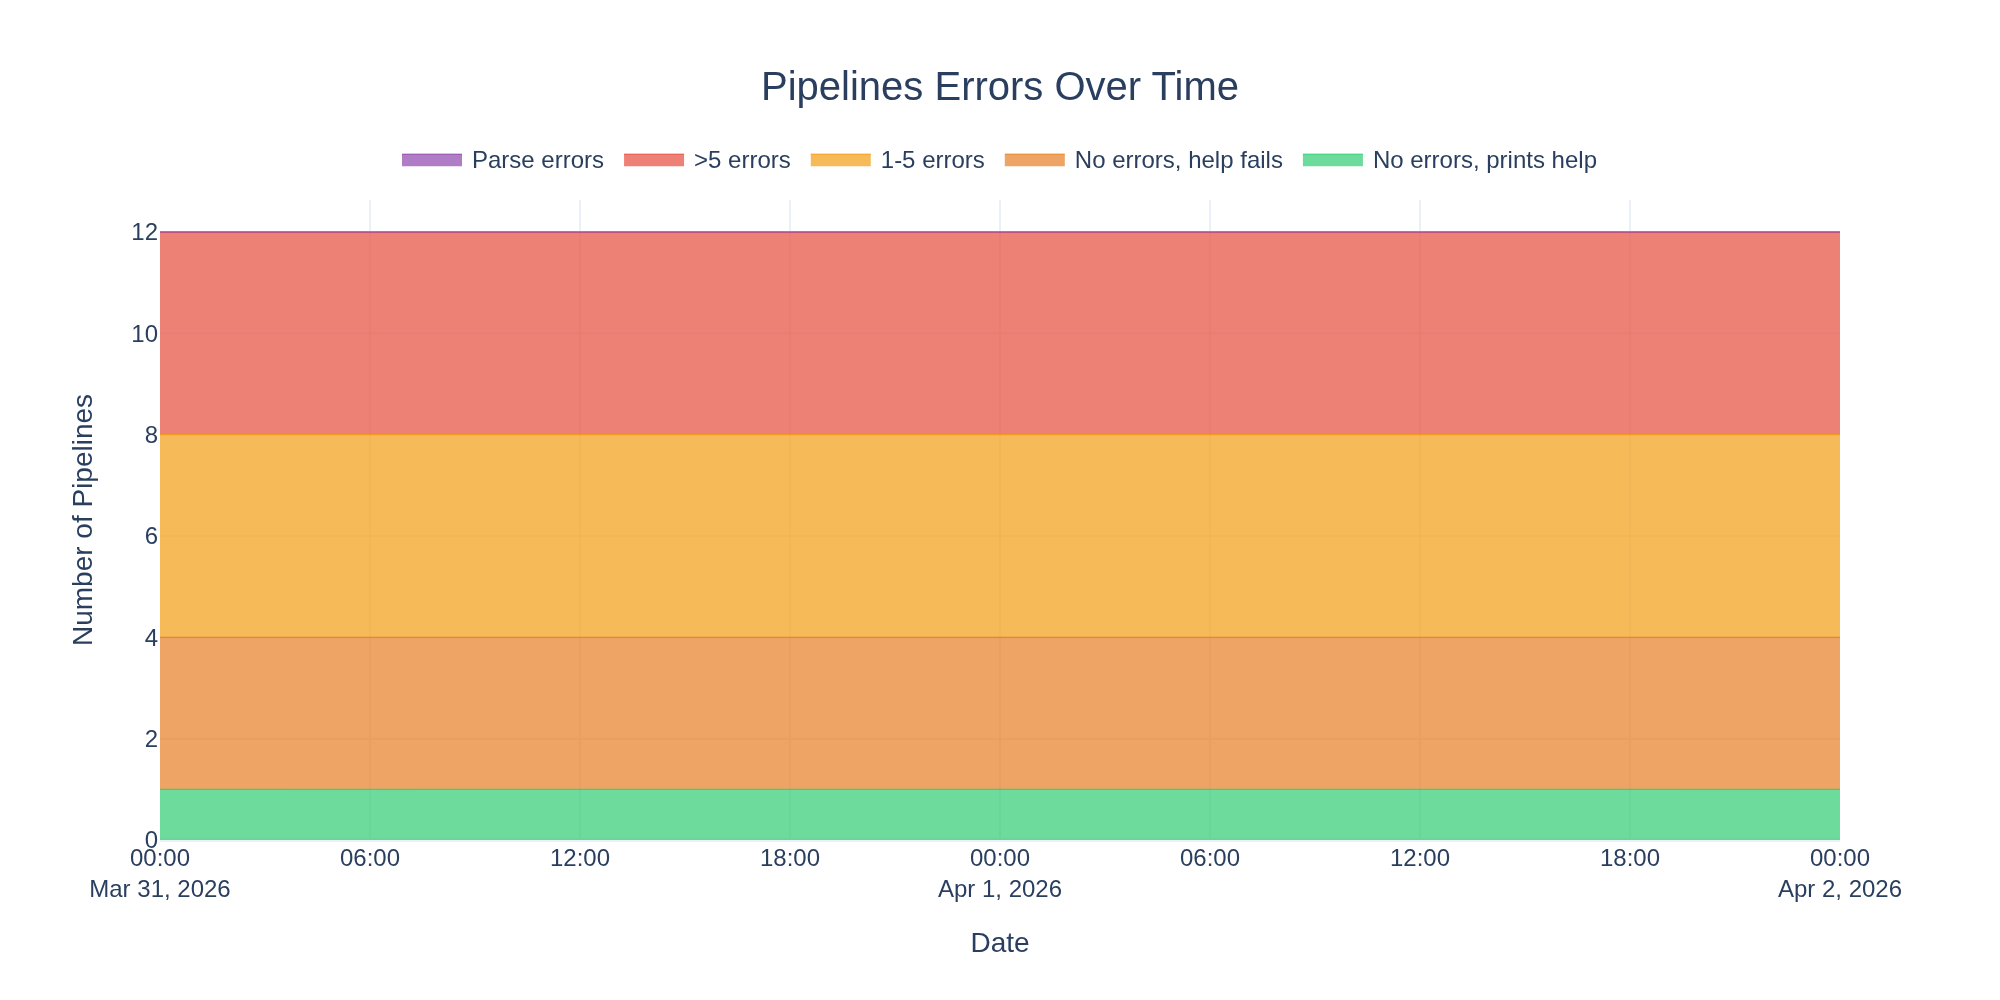
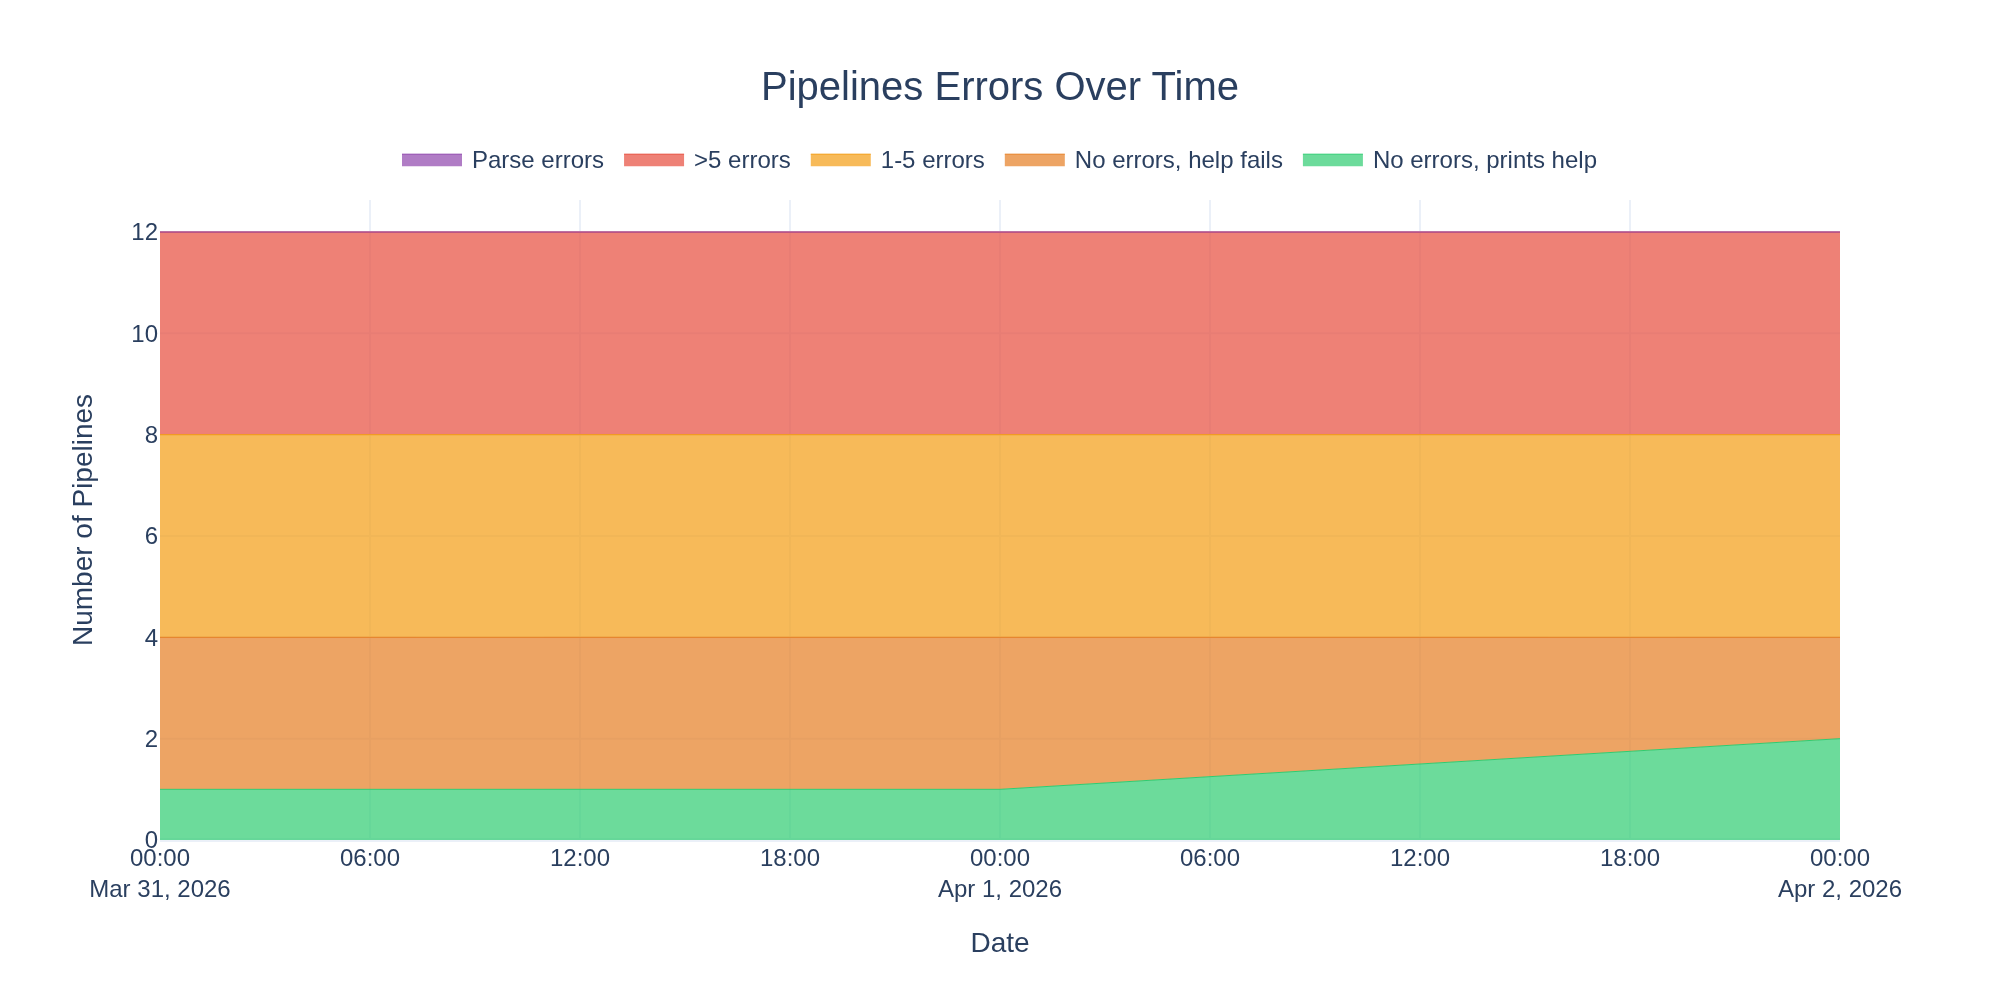
Update lint results [skip ci]

Changed region(s): [[0.527, 0.713, 0.93, 0.806]]

diff --git a/README.md b/README.md
@@ -12,14 +12,14 @@ The goal is for all genomic-medicine-sweden pipelines to run without errors usin
 > See the [nf-core blog post](https://nf-co.re/blog/2025/nextflow_syntax_nf-core_roadmap) for details on the migration timeline.
 > **Fixing all errors from `nextflow lint` will be a requirement by early spring 2026.**
 
-- **Last updated:** 2026-04-02 00:20:48 UTC
+- **Last updated:** 2026-04-02 14:45:51 UTC
 - **Nextflow version:** 26.03.1-edge
 
 ## Pipelines
 
 - **Strict syntax:** 0 parse errors, 137 errors, 594 warnings across 12 pipelines
 - **Versions Mix:** 4/12 (33.3%) pipelines do not use the `ch_versions += +ch_versions.mix` anti-pattern
-- **Zero issues:** 0 pipelines (0.0%)
+- **Zero issues:** 1 pipelines (8.3%)
 
 |                    Errors                    |                     Warnings                     |
 | :------------------------------------------: | :----------------------------------------------: |
@@ -45,7 +45,7 @@ The goal is for all genomic-medicine-sweden pipelines to run without errors usin
 | :x: [taxprofiler](https://github.com/nf-core/taxprofiler)                         |     No      |      0 |       99 |     Yes     | :negative_squared_cross_mark: |   [View](lint_results/pipeline-results/taxprofiler_lint.md)   | [View](lint_results/prints-help-results/taxprofiler_help.txt) |
 | :x: [nf-autoseq](https://github.com/genomic-medicine-sweden/nf-autoseq)           |     No      |      0 |       31 |     No      | :negative_squared_cross_mark: |   [View](lint_results/pipeline-results/nf-autoseq_lint.md)    | [View](lint_results/prints-help-results/nf-autoseq_help.txt)  |
 | :x: [oncorefiner](https://github.com/clinical-genomics/oncorefiner)               |     No      |      0 |        6 |     No      |      :white_check_mark:       |   [View](lint_results/pipeline-results/oncorefiner_lint.md)   | [View](lint_results/prints-help-results/oncorefiner_help.txt) |
-| :x: [nallo](https://github.com/genomic-medicine-sweden/nallo)                     |     No      |      0 |        0 |     No      |      :white_check_mark:       |      [View](lint_results/pipeline-results/nallo_lint.md)      |    [View](lint_results/prints-help-results/nallo_help.txt)    |
+| :white_check_mark: [nallo](https://github.com/genomic-medicine-sweden/nallo)      |     No      |      0 |        0 |     Yes     |      :white_check_mark:       |      [View](lint_results/pipeline-results/nallo_lint.md)      |    [View](lint_results/prints-help-results/nallo_help.txt)    |
 
 </details>
 

diff --git a/lint_results/pipeline-results/nallo_lint.md b/lint_results/pipeline-results/nallo_lint.md
@@ -1,5 +1,5 @@
 # Nextflow lint results
 
-- Generated: 2026-04-01T00:22:54.692277354Z
+- Generated: 2026-04-02T14:44:57.557036989Z
 - Nextflow version: 26.03.1-edge
 - Summary: No issues found

diff --git a/lint_results/pipeline-results/oncorefiner_lint.md b/lint_results/pipeline-results/oncorefiner_lint.md
@@ -1,6 +1,6 @@
 # Nextflow lint results
 
-- Generated: 2026-04-02T00:19:51.029722745Z
+- Generated: 2026-04-02T14:45:20.957108647Z
 - Nextflow version: 26.03.1-edge
 - Summary: 6 warnings
 
